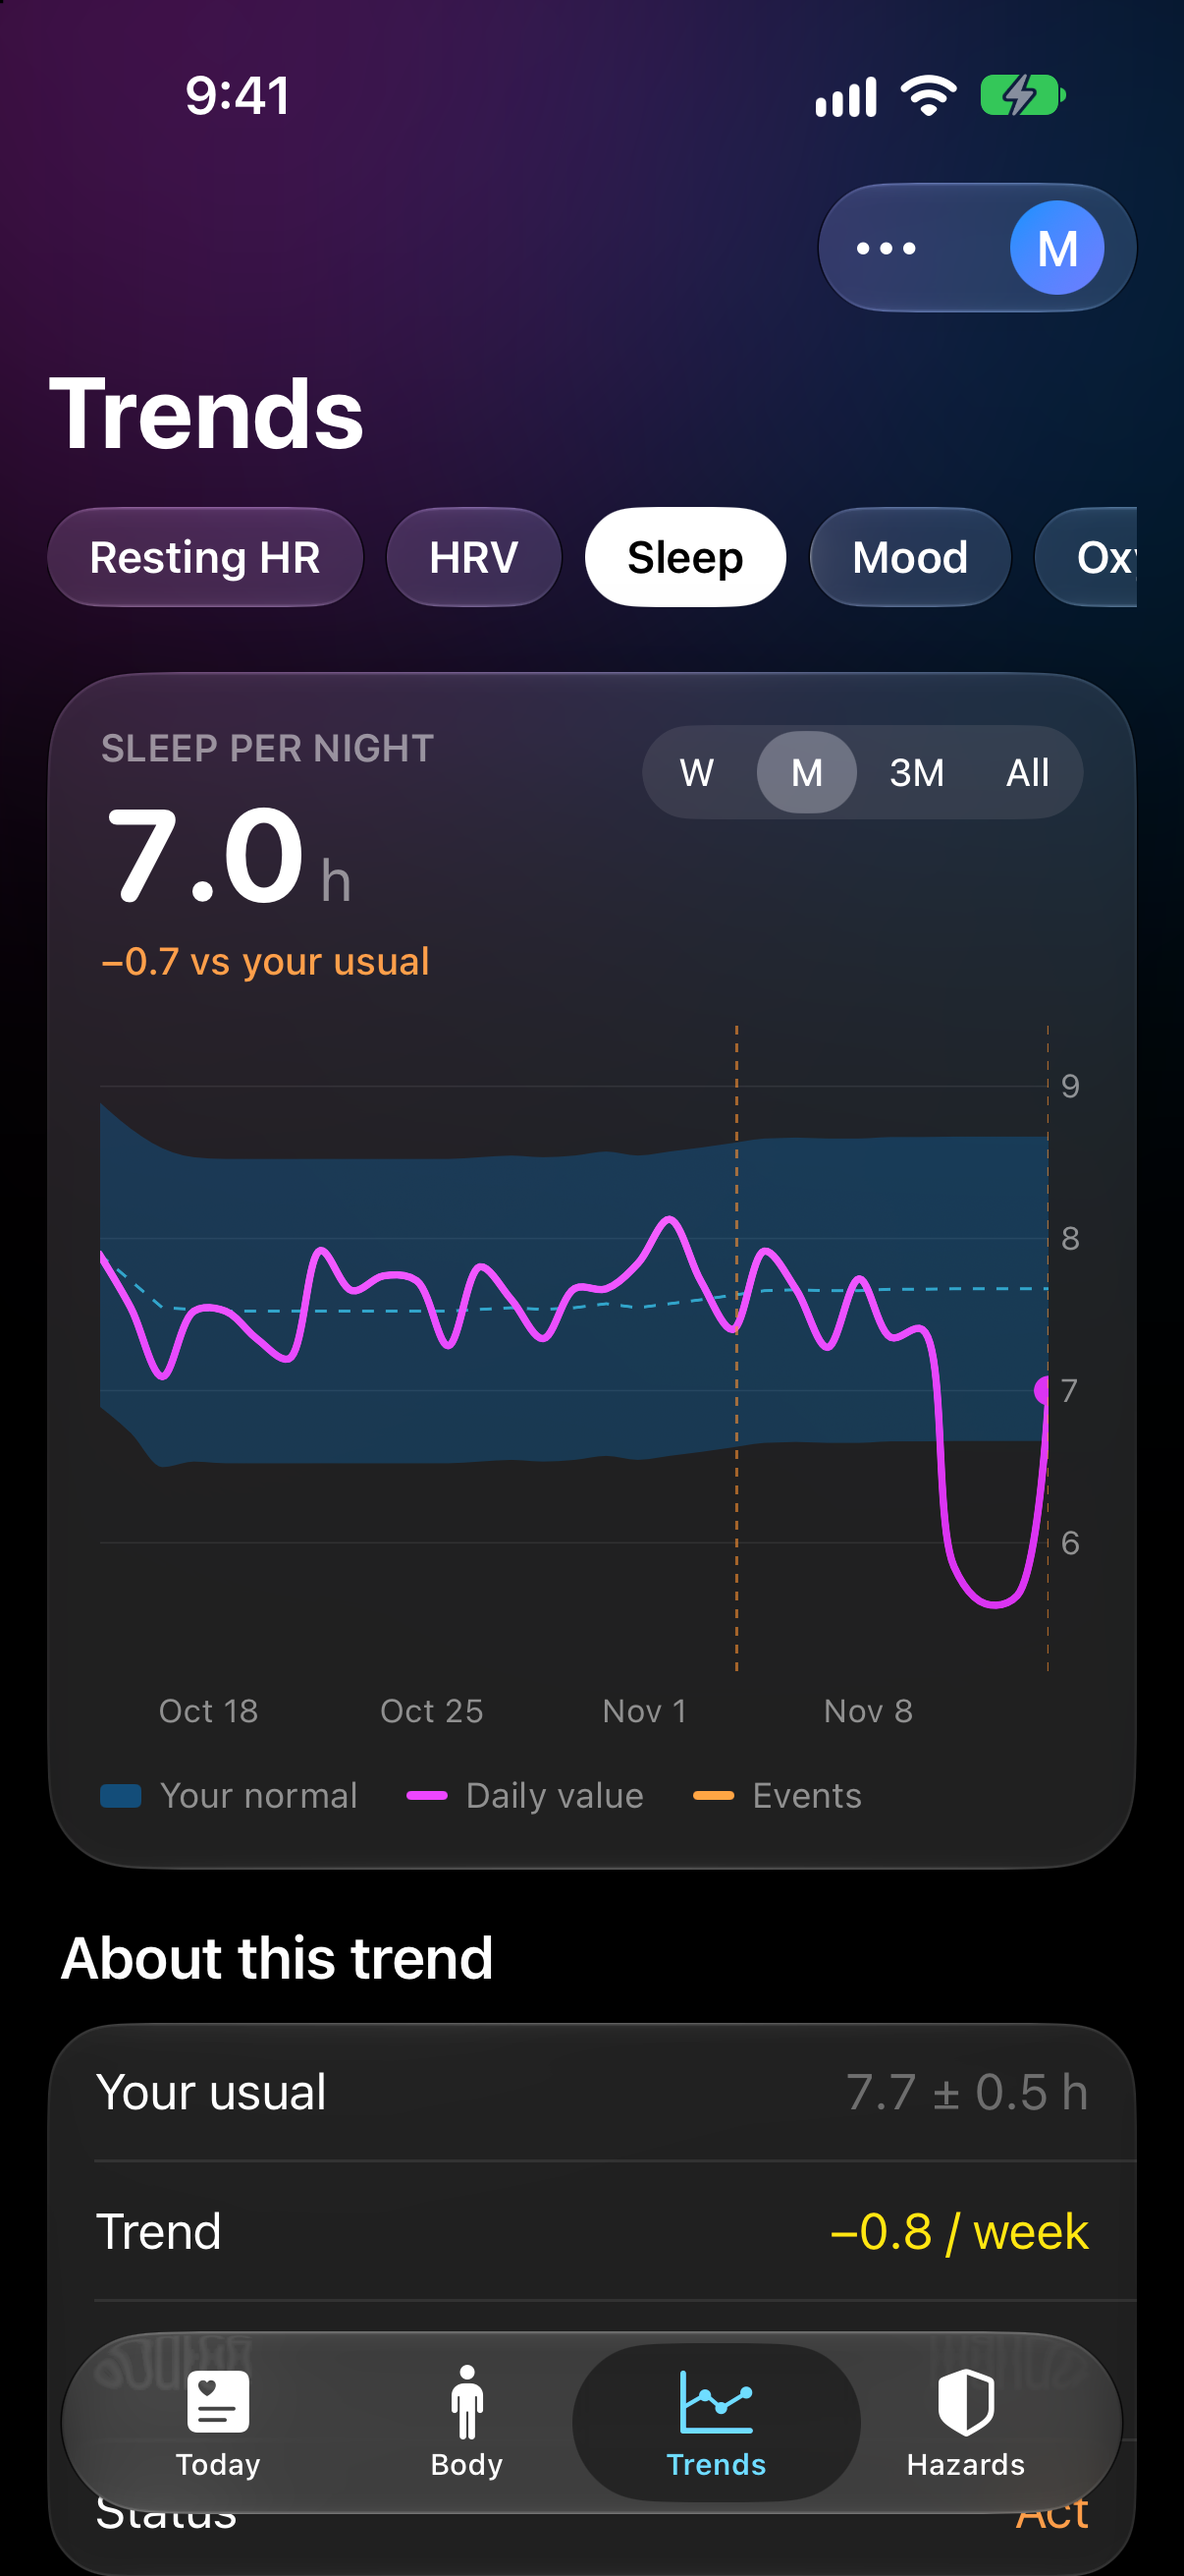
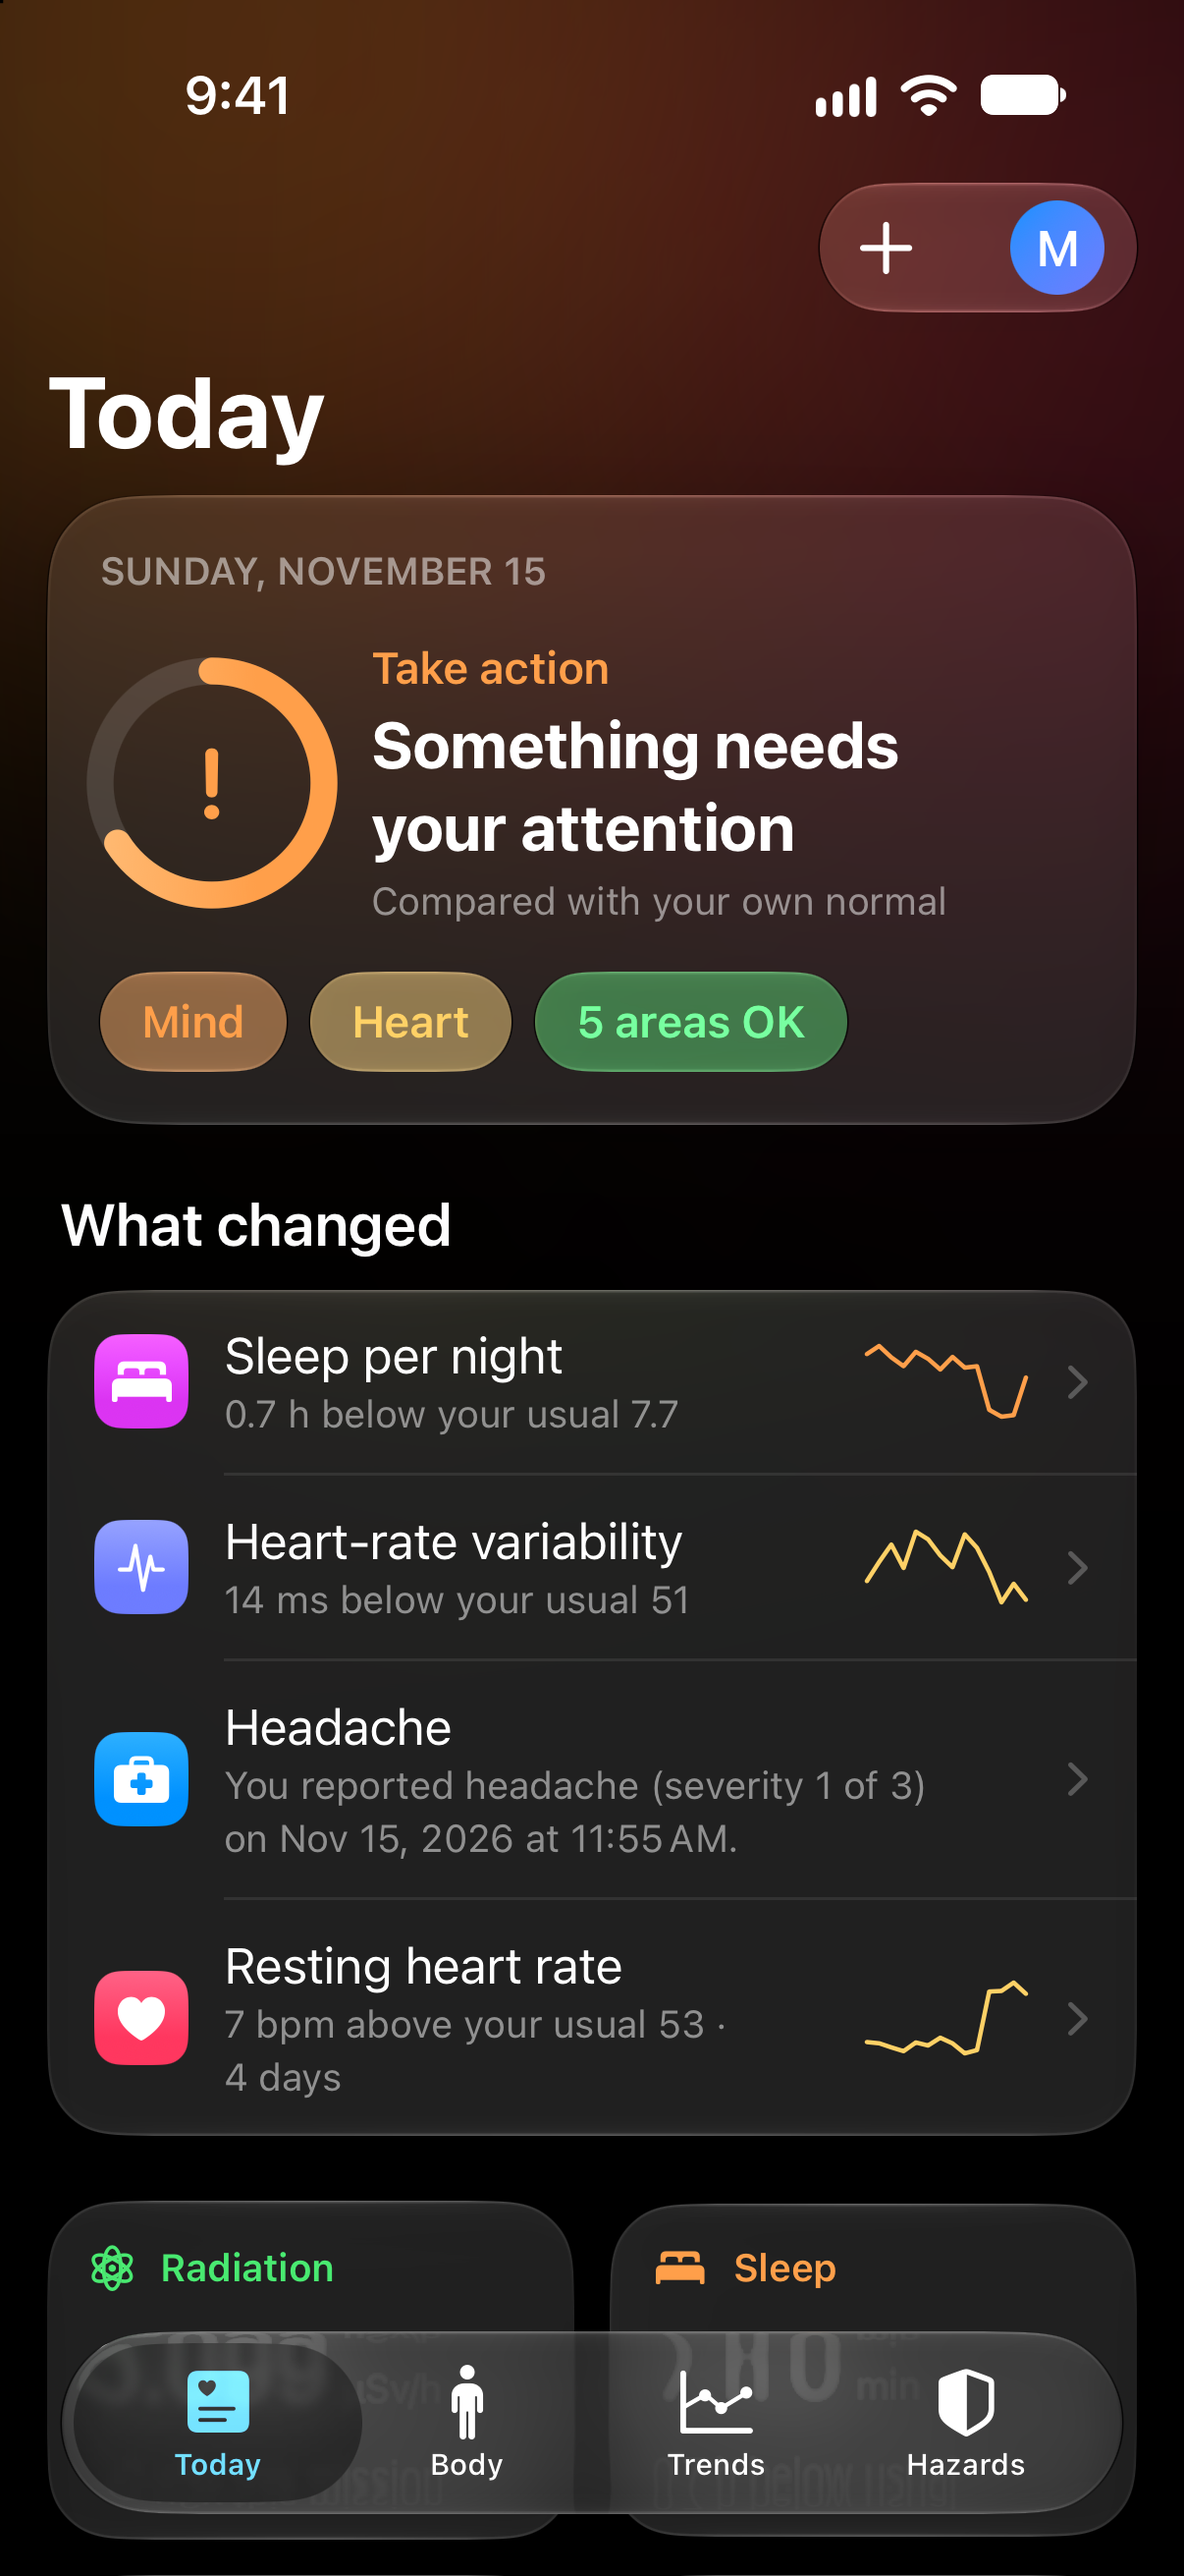
Uno joystick diagnostics in frames, Home shows what changed, forced HDMI mode opt-in, arrow glyph fix

diff --git a/hub/crewhub/hdmi_pages.py b/hub/crewhub/hdmi_pages.py
@@ -447,14 +447,19 @@ def _home_left(S: Screen, state: HubState, p: Dict[str, Any], alerts: List[Alert
     for i, line in enumerate(S.wrap(sub, 24, "Regular", x0 + lw_ - PAD - tx, 3)):
         S.text(tx, y0 + 238 + i * 32, line, 24, "Regular", DIM)
     S.hline(x0 + PAD, x0 + lw_ - PAD, y0 + 332)
-    S.text(x0 + PAD + 8, y0 + 366, "ALERTS", 14, "Bold", FAINT)
-    if not alerts:
+    rows = [(a.text, a.level) for a in alerts[:3]]
+    heading = "ALERTS"
+    if not rows:                                  # nothing to acknowledge: show what changed in the person's own numbers
+        heading = "WHAT CHANGED"
+        rows = [(c.get("text", ""), max(0, int(c.get("level", 0) or 0))) for c in (p.get("changes") or [])[:3] if c.get("text")]
+    S.text(x0 + PAD + 8, y0 + 366, heading, 14, "Bold", FAINT)
+    if not rows:
         S.dot(x0 + PAD + 14, y0 + 412, 7, LEVEL[0])
         S.text(x0 + PAD + 34, y0 + 412, "All quiet", 24, "Medium", DIM)
-    for i, a in enumerate(alerts[:3]):
+    for i, (text, lv) in enumerate(rows):
         yy = y0 + 410 + i * 46
-        S.dot(x0 + PAD + 14, yy, 7, LEVEL[a.level])
-        S.text(x0 + PAD + 34, yy, S.fit(a.text, 24, "Medium", lw_ - 2 * PAD - 44), 24, "Medium", TEXT)
+        S.dot(x0 + PAD + 14, yy, 7, LEVEL[lv])
+        S.text(x0 + PAD + 34, yy, S.fit(text, 24, "Medium", lw_ - 2 * PAD - 44), 24, "Medium", TEXT)
 
 
 HOME_SENSORS = ("cabin_temp", "humidity", "pressure", "co2", "o2", "noise")
@@ -691,7 +696,7 @@ class Renderer:
             w("c:detail", content, _metric_key(state, kind, nav.detail, metrics), lambda: _metric_pane(S, state, kind, nav.detail, metrics, content))
         elif page == "home":
             lb, cb, rb = _home_boxes(content)
-            w("c:hl", lb, (p.get("person"), (p.get("mission") or {}).get("day"), _home_status(state, p), p.get("overall"), tuple((a.text, a.level) for a in alerts[:3]), len(alerts)),
+            w("c:hl", lb, (p.get("person"), (p.get("mission") or {}).get("day"), _home_status(state, p), p.get("overall"), tuple((a.text, a.level) for a in alerts[:3]), len(alerts), repr(p.get("changes"))),
               lambda: _home_left(S, state, p, alerts, lb))
             w("c:hc", cb, (tuple((k, state.latest.get(k), state.levels.get(k, 0)) for k in HOME_SENSORS if k in state.latest),
                            max(state.levels.values()) if state.levels else None), lambda: _home_cabin(S, state, cb))

diff --git a/hub/crewhub/protocol.py b/hub/crewhub/protocol.py
@@ -37,6 +37,7 @@ class Frame:
     seq: int
     values: Dict[str, float]
     scenario: str = "normal"
+    raw: Dict[str, int] = field(default_factory=dict)       # raw joystick readings (jx, jy: 0–1023, sw: 1 = released) for diagnosing wiring
 
 
 @dataclass
@@ -78,6 +79,7 @@ def parse_line(raw: Union[bytes, str]) -> Optional[Message]:
         except ValueError:
             return None
         values: Dict[str, float] = {}
+        raw: Dict[str, int] = {}
         scenario = "normal"
         for p in parts[1:]:
             k, sep, v = p.partition("=")
@@ -87,6 +89,12 @@ def parse_line(raw: Union[bytes, str]) -> Optional[Message]:
                 try:
                     scenario = SCENARIOS[int(v)]
                 except (ValueError, IndexError):
+                    pass
+                continue
+            if k in ("jx", "jy", "sw"):
+                try:
+                    raw[k] = int(v)
+                except ValueError:
                     pass
                 continue
             if k not in KEYS:
@@ -100,7 +108,7 @@ def parse_line(raw: Union[bytes, str]) -> Optional[Message]:
             values[KEYS[k]] = f
         if not values:
             return None
-        return Frame(seq=seq, values=values, scenario=scenario)
+        return Frame(seq=seq, values=values, scenario=scenario, raw=raw)
     return None
 
 

diff --git a/hub/tests/test_hub.py b/hub/tests/test_hub.py
@@ -44,6 +44,11 @@ def test_parse_rejects_noise_and_half_lines(line):
     assert parse_line(line) is None
 
 
+def test_frame_carries_raw_joystick_readings():
+    f = parse_line("S,5,t=21.0,scn=0,jx=512,jy=498,sw=1")
+    assert f.values == {"cabin_temp": 21.0} and f.raw == {"jx": 512, "jy": 498, "sw": 1}
+
+
 def test_unknown_sensor_keys_are_ignored():
     f = parse_line("S,5,t=21.0,newsensor=3")
     assert f.values == {"cabin_temp": 21.0}

diff --git a/hub/crewhub/main.py b/hub/crewhub/main.py
@@ -152,6 +152,8 @@ class Hub:
             self.state.uno_version = msg.version
             self.state.touch()
         elif isinstance(msg, Frame):
+            if msg.raw:
+                self.state.joy["raw"] = dict(msg.raw)
             new = self.state.on_frame(msg)
             for a in new:
                 self.store.log_event("alert", a.text)

diff --git a/hub/crewhub/tft_pages.py b/hub/crewhub/tft_pages.py
@@ -110,7 +110,7 @@ def mix(a: Color, b: Color, t: float) -> Color:
 
 
 def clean(s: str) -> str:
-    return s.replace("₂", "2").replace(" ", " ")
+    return s.replace("₂", "2").replace(" ", " ").replace("→", "›")
 
 
 class Canvas:

diff --git a/demo/capture/shotlist.md b/demo/capture/shotlist.md
@@ -10,3 +10,9 @@ Shots: A01-welcome.png, A08-01..04.png.
 NOT captured: A02-A07, A09-A22. Reason: no tool can tap/swipe in the simulator, and every crewhealth:// deep link raises an "Open in Helios?" prompt that needs a tap.
 Tooling: ffmpeg needed DYLD_LIBRARY_PATH shim (libvpx.11 -> .12 symlink in scratchpad); recordVideo of a static screen yields ~1 frame, so pad with tpad=stop_mode=clone.
 Brief vs screen: app is titled "Helios" (welcome), third feature line is "Stays on your iPhone and your Helios Hub", extra "Use my Health export file" button. Storyboard text says "Crew Health Hub".
+
+## Update (Device Hub session)
+Captured in cfr/: A01, A02 (Health permission flow), A03 (Data types counts), A04 (live HR 1,261->1,264), A05 (Today, "Me"). A06 retake pending (earlier takes ended on the "Logged" screen).
+Input route: synthesized clicks at screen coords onto the Device Hub window (works only while it is the topmost window). Calibration: screen_pt = (1295 + x*0.933, 152.5 + y*0.933) for device pt (x,y). Posting events to the Device Hub pid/window while it is behind other windows does nothing. AXe v1.8.0 reports success but has no effect on iOS 27.2 (times out creating its automation session).
+UI differences vs brief: profile -> Data -> Advanced -> "Data types and sync log" holds per-type counts; "Stream live heart rate" is under Advanced; "Me" has no mission day; check-in has Stress/Workload sliders, step 3 reads "Due today"; every crewhealth:// link needs the Open button tapped at (275,474) pt.
+Remaining: A06 retake, A07, A09-A21 (A15, A22 optional).
